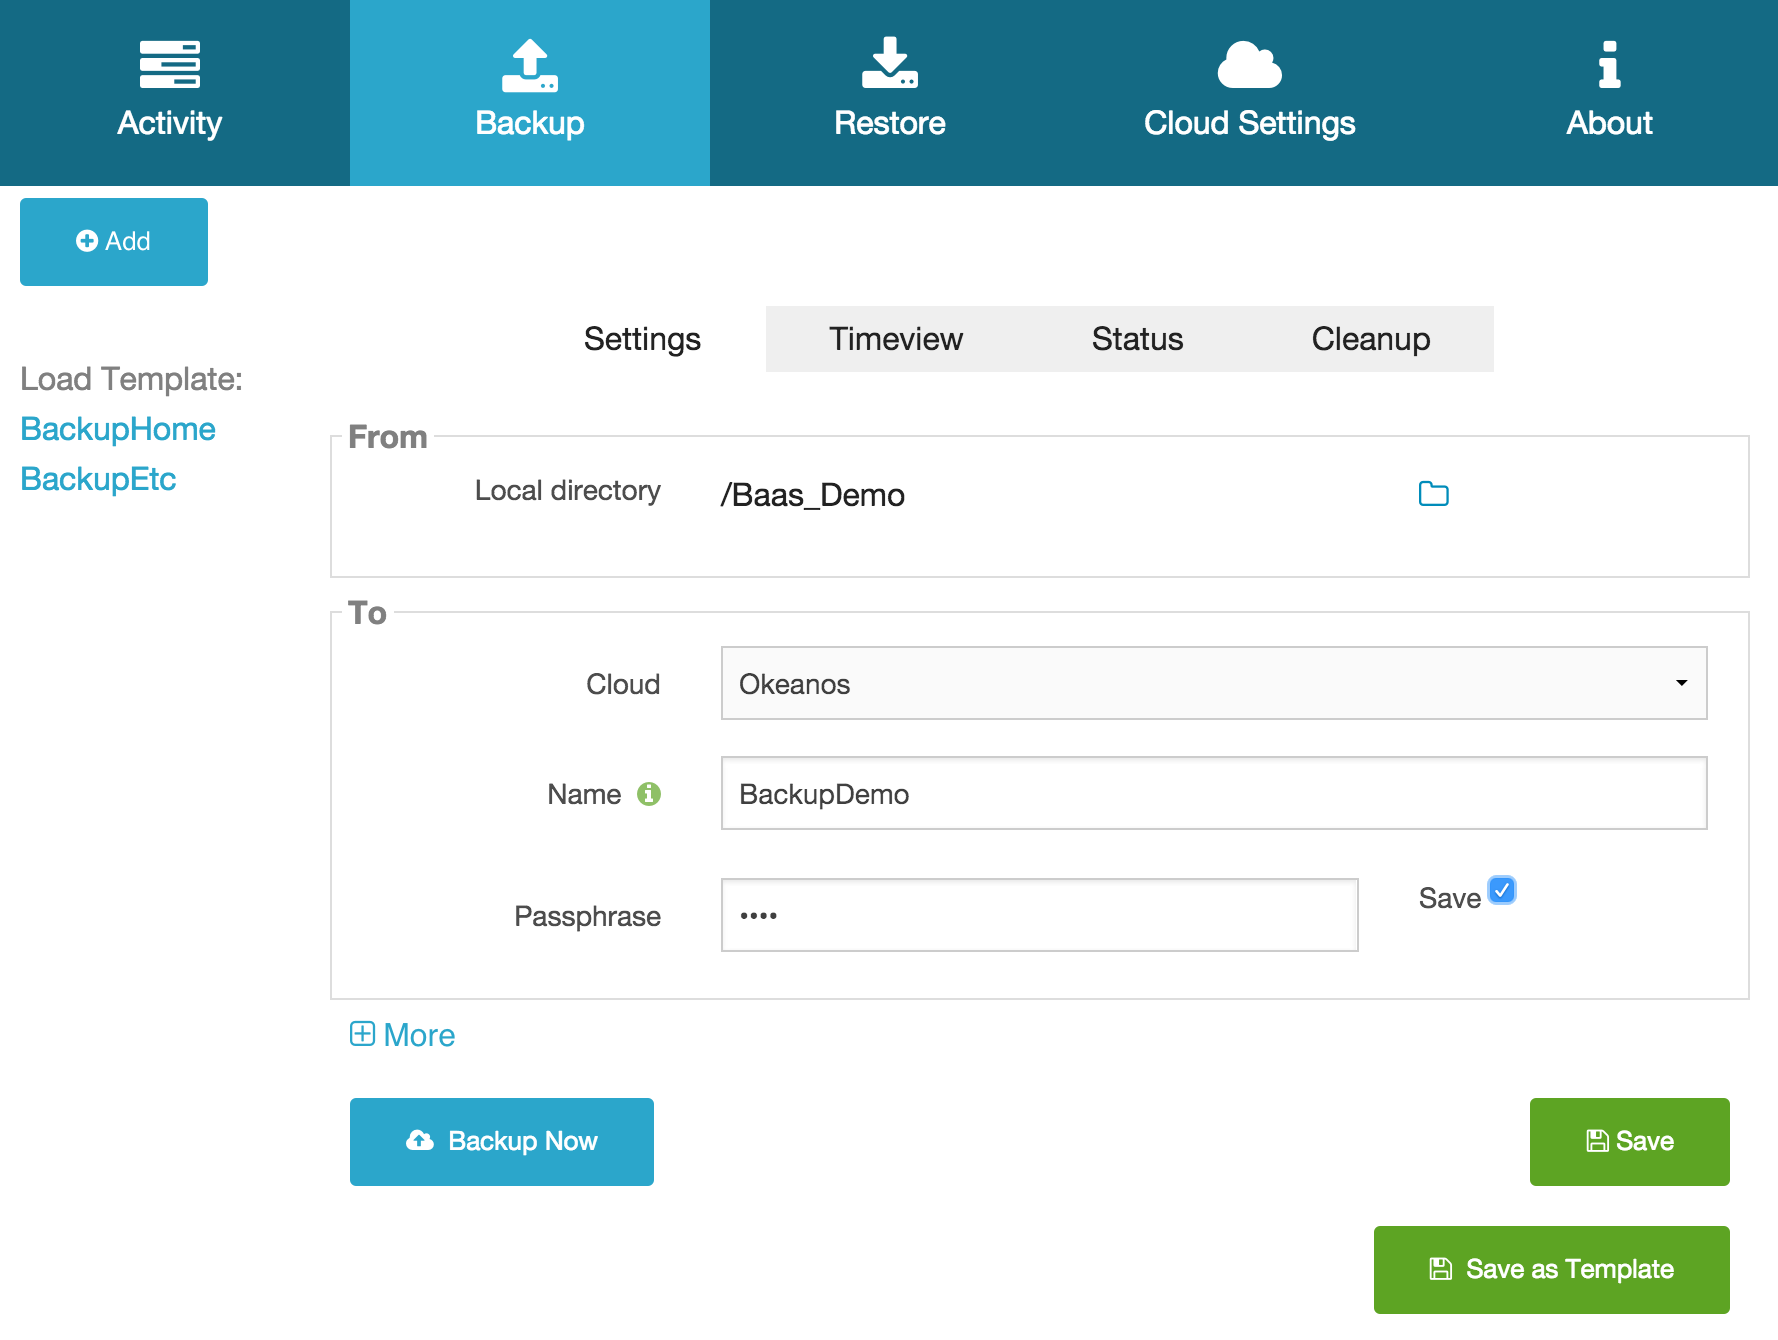
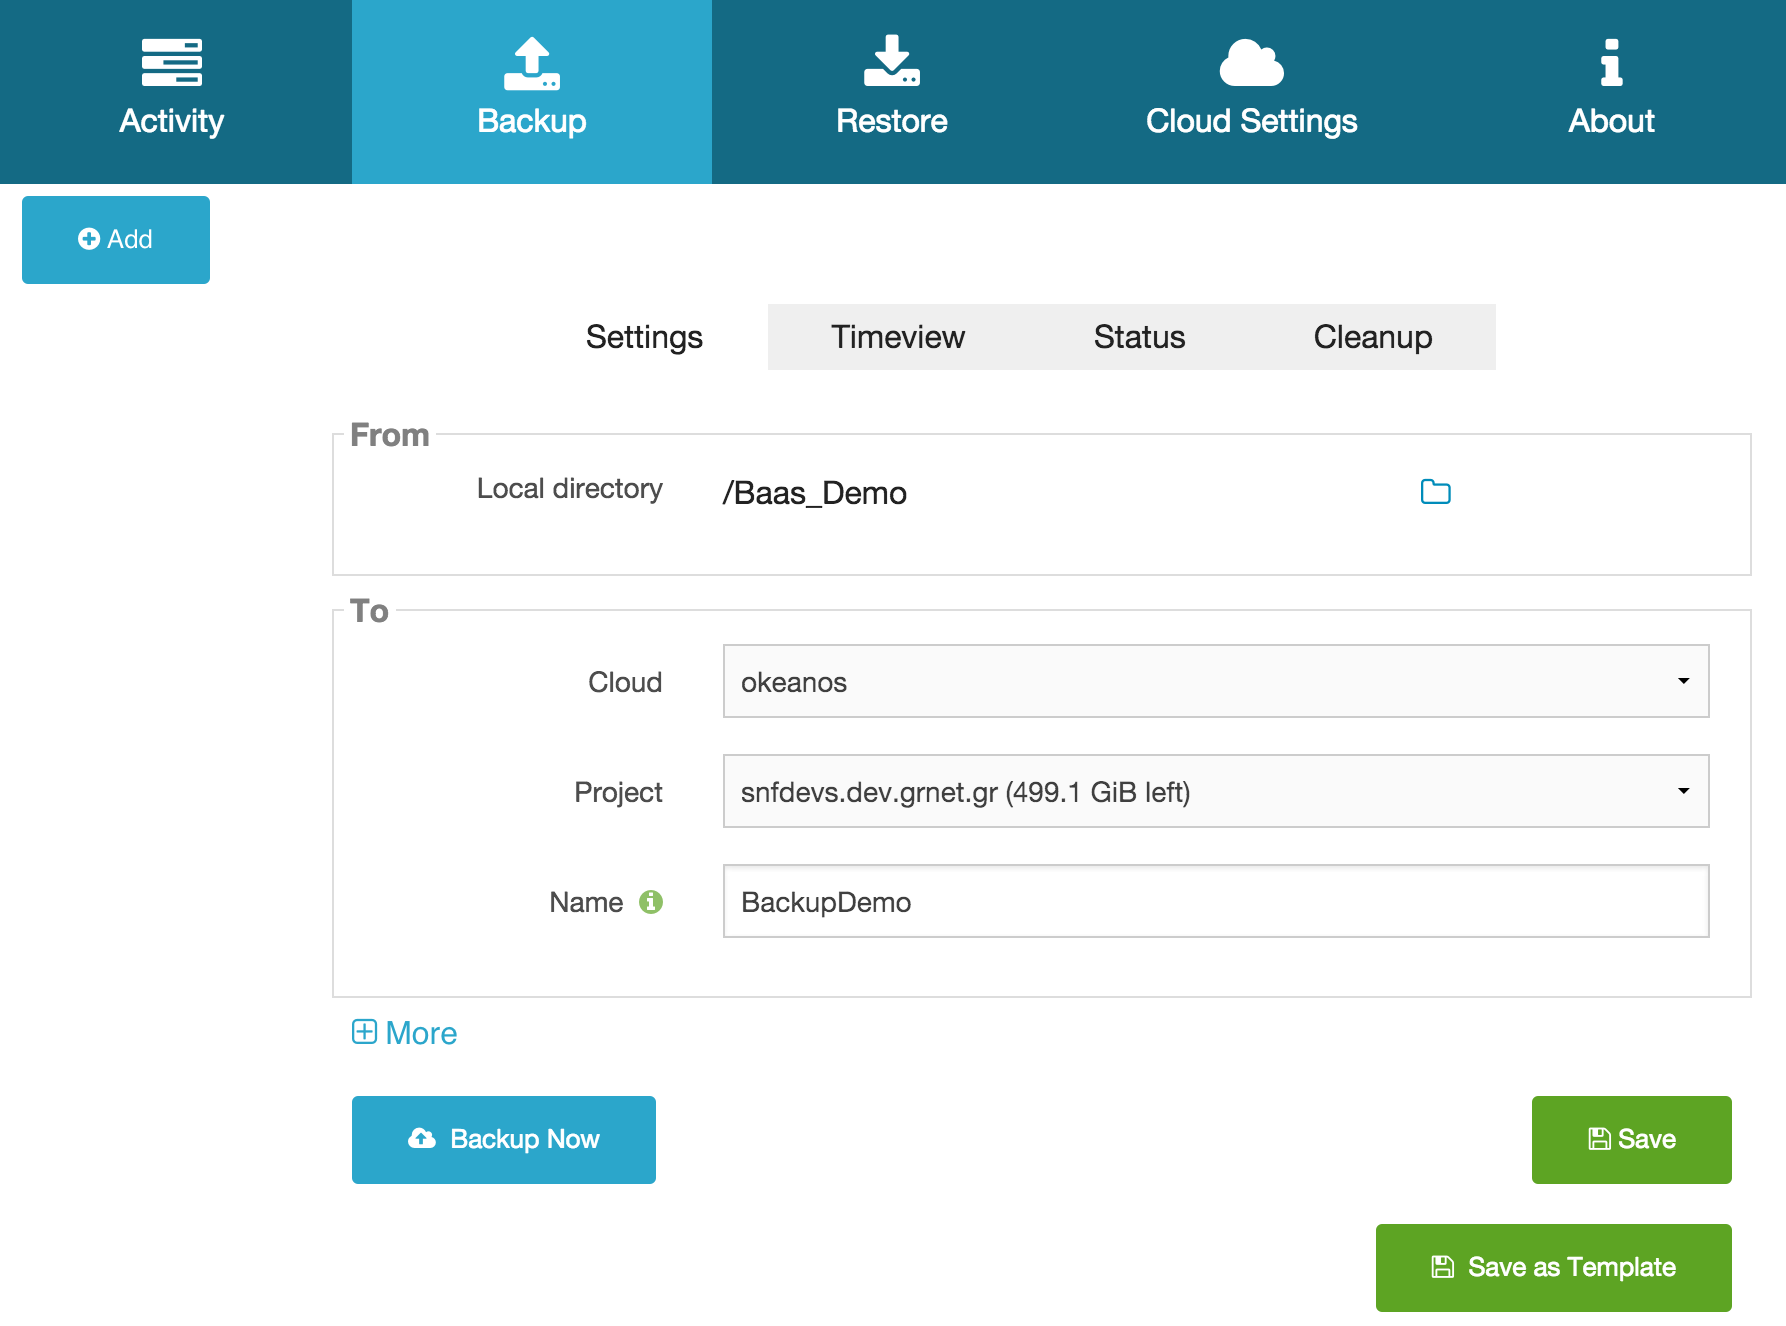
docs: Update usage and screenshots

diff --git a/docs/source/use.rst b/docs/source/use.rst
@@ -17,10 +17,15 @@ You can provide your own settings or start from an existing template.
 
 .. image:: images/new-backup.png
 
-Click on *Save* button to save current settings or *Backup Now* to save settings
-and start backup process.
+.. note:: Backup name will also appear as a container in your cloud, assigned to the selected project.
 
-.. note:: Backup name will also appear as a container in your cloud.
+Click on *Save* button to save current settings or *Backup Now* to save settings
+and start backup process. In the latter case you will be prompted to encrypt your
+backup data using a passphrase.
+
+.. image:: images/passphrase.png
+        :width: 500px
+        :align: center
 
 When finished you can check *Status* section for detailed information.
 
